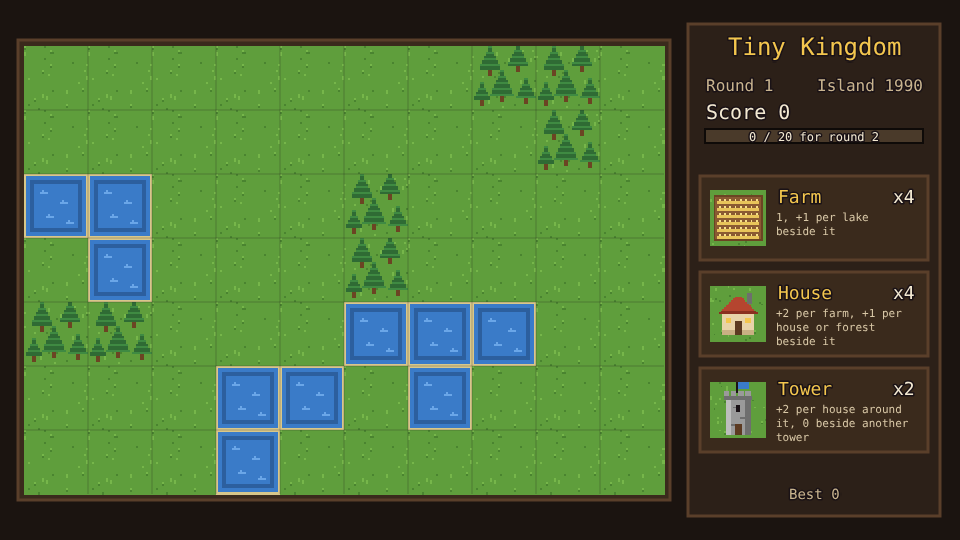
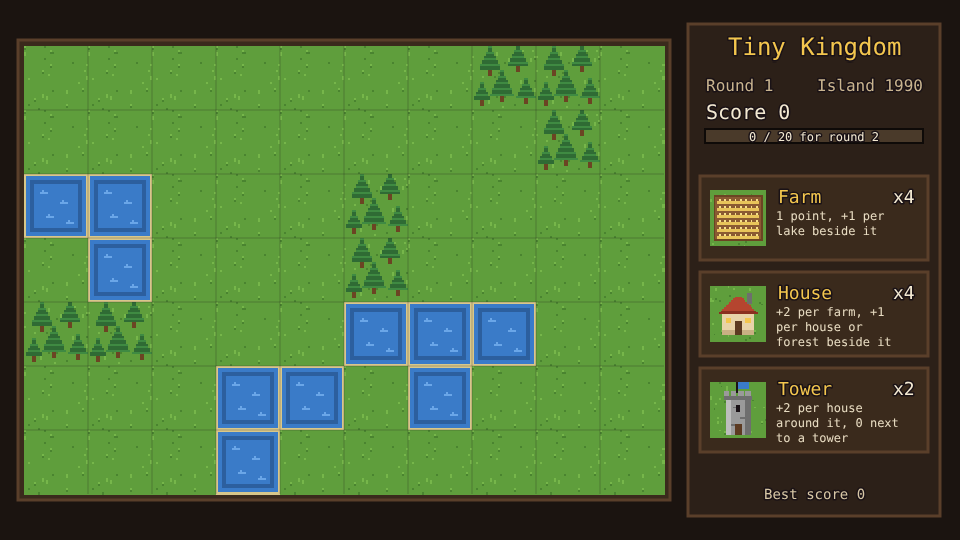
Tiny Kingdom: readable tile rules (#69)
The tile buttons' scoring rules were 11px dim text; they are now 12px and lighter. The farm rule says "1 point" instead of a bare "1", the tower rule is shortened to fit three lines, and the footer reads "Best score" in a lighter colour.

Requested by Chriszly

Created with Claude Opus 5.5 (medium)

diff --git a/games/tiny-kingdom/src/scenes/GameScene.ts b/games/tiny-kingdom/src/scenes/GameScene.ts
@@ -107,7 +107,7 @@ export class GameScene extends Phaser.Scene {
     this.scoreText = this.add.text(PANEL.x + 16, PANEL.y + 74, '', textStyle(20));
     this.goalText = this.add.text(GOAL_BAR.x + GOAL_BAR.w / 2, GOAL_BAR.y + GOAL_BAR.h / 2, '', textStyle(12)).setOrigin(0.5).setDepth(1);
     this.bar = this.add.graphics();
-    this.bestText = this.add.text(PANEL.x + PANEL.w / 2, PANEL.y + PANEL.h - 22, '', textStyle(14, '#c9b48f')).setOrigin(0.5);
+    this.bestText = this.add.text(PANEL.x + PANEL.w / 2, PANEL.y + PANEL.h - 22, '', textStyle(14, '#d8c7a6')).setOrigin(0.5);
 
     BUILDINGS.forEach((kind, i) => {
       const x = TILE_BUTTONS.x;
@@ -117,10 +117,10 @@ export class GameScene extends Phaser.Scene {
       const icon = this.add.image(x - w / 2 + 38, y, `tile-${kind}`).setScale(0.875);
       this.add.text(x - w / 2 + 76, y - h / 2 + 8, INFO[kind].name, textStyle(18, '#f3c64e'));
       const count = this.add.text(x + w / 2 - 12, y - h / 2 + 8, '', textStyle(18)).setOrigin(1, 0);
-      this.add.text(x - w / 2 + 76, y - h / 2 + 34, INFO[kind].rule, {
+      this.add.text(x - w / 2 + 76, y - h / 2 + 32, INFO[kind].rule, {
         fontFamily: FONT,
-        fontSize: '11px',
-        color: '#d8c7a6',
+        fontSize: '12px',
+        color: '#e8dcc2',
         wordWrap: { width: w - 84 },
       });
       bg.setInteractive({ useHandCursor: true }).on('pointerdown', () => {
@@ -216,7 +216,7 @@ export class GameScene extends Phaser.Scene {
     this.islandText.setText(`Island ${s.island}`);
     this.scoreText.setText(`Score ${s.score}`);
     this.goalText.setText(`${s.score} / ${s.goal} for round ${s.round + 1}`);
-    this.bestText.setText(`Best ${s.best}`);
+    this.bestText.setText(`Best score ${s.best}`);
 
     // The goal bar fills from the last round's goal to this one's.
     const from = s.round === 1 ? 0 : goalFor(s.round - 1);

diff --git a/games/tiny-kingdom/src/game/tiles.ts b/games/tiny-kingdom/src/game/tiles.ts
@@ -12,9 +12,9 @@ export interface BuildingInfo {
 }
 
 export const INFO: Record<Building, BuildingInfo> = {
-  farm: { name: 'Farm', rule: '1, +1 per lake beside it' },
+  farm: { name: 'Farm', rule: '1 point, +1 per lake beside it' },
   house: { name: 'House', rule: '+2 per farm, +1 per house or forest beside it' },
-  tower: { name: 'Tower', rule: '+2 per house around it, 0 beside another tower' },
+  tower: { name: 'Tower', rule: '+2 per house around it, 0 next to a tower' },
 };
 
 export const isBuilding = (cell: Cell): cell is Building => (BUILDINGS as readonly string[]).includes(cell);
